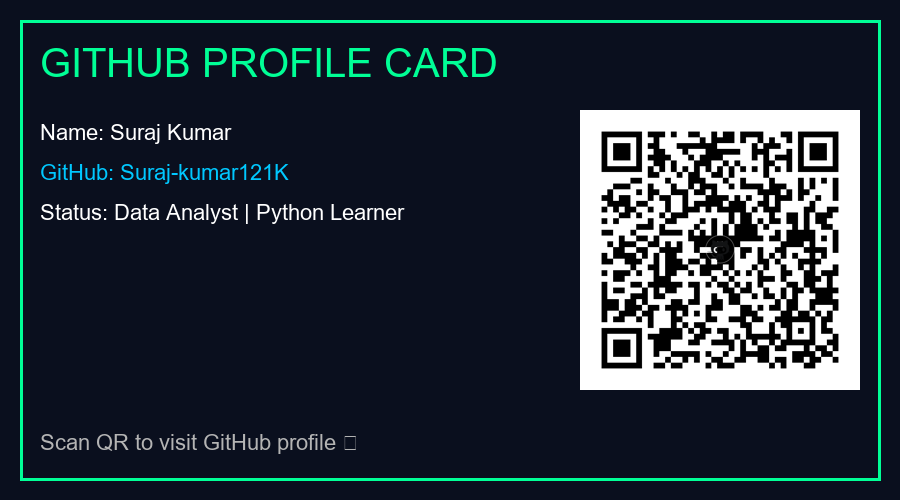
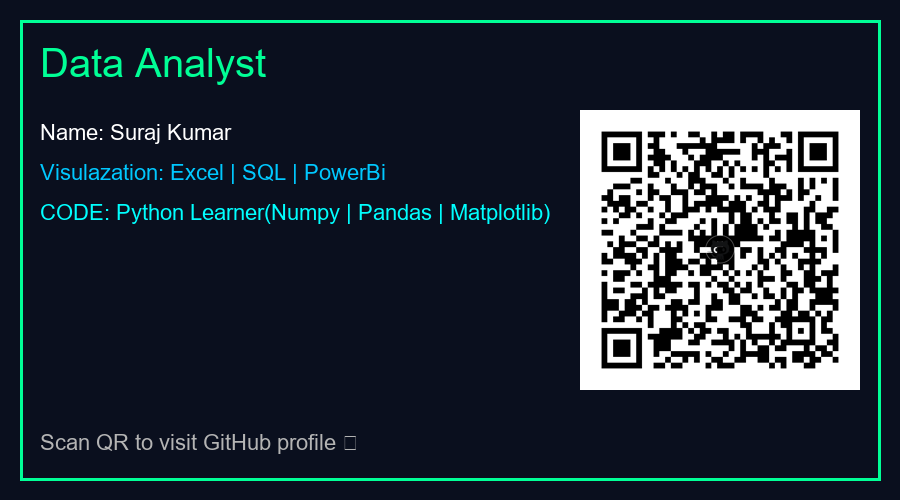
ADD

Changed region(s): [[0.0311, 0.09, 0.56, 0.18], [0.0311, 0.39, 0.6222, 0.45], [0.0311, 0.33, 0.4356, 0.36]]

diff --git a/project/qr.py b/project/qr.py
@@ -48,12 +48,12 @@ except:
 draw.rectangle([(20, 20), (W-20, H-20)], outline=(0, 255, 150), width=3)
 
 # TITLE
-draw.text((40, 40), "GITHUB PROFILE CARD", fill=(0, 255, 150), font=title_font)
+draw.text((40, 40), "Data Analyst", fill=(0, 255, 150), font=title_font)
 
 # DETAILS
 draw.text((40, 120), "Name: Suraj Kumar", fill="white", font=text_font)
-draw.text((40, 160), "GitHub: Suraj-kumar121K", fill=(0, 200, 255), font=text_font)
-draw.text((40, 200), "Status: Data Analyst | Python Learner", fill="white", font=text_font)
+draw.text((40, 160), "Visulazation: Excel | SQL | PowerBi", fill=(0, 200, 255), font=text_font)
+draw.text((40, 200), "CODE: Python Learner(Numpy | Pandas | Matplotlib)", fill=(0,300,255), font=text_font)
 
 # QR BORDER BOX
 qr_img = qr_img.resize((260, 260))
